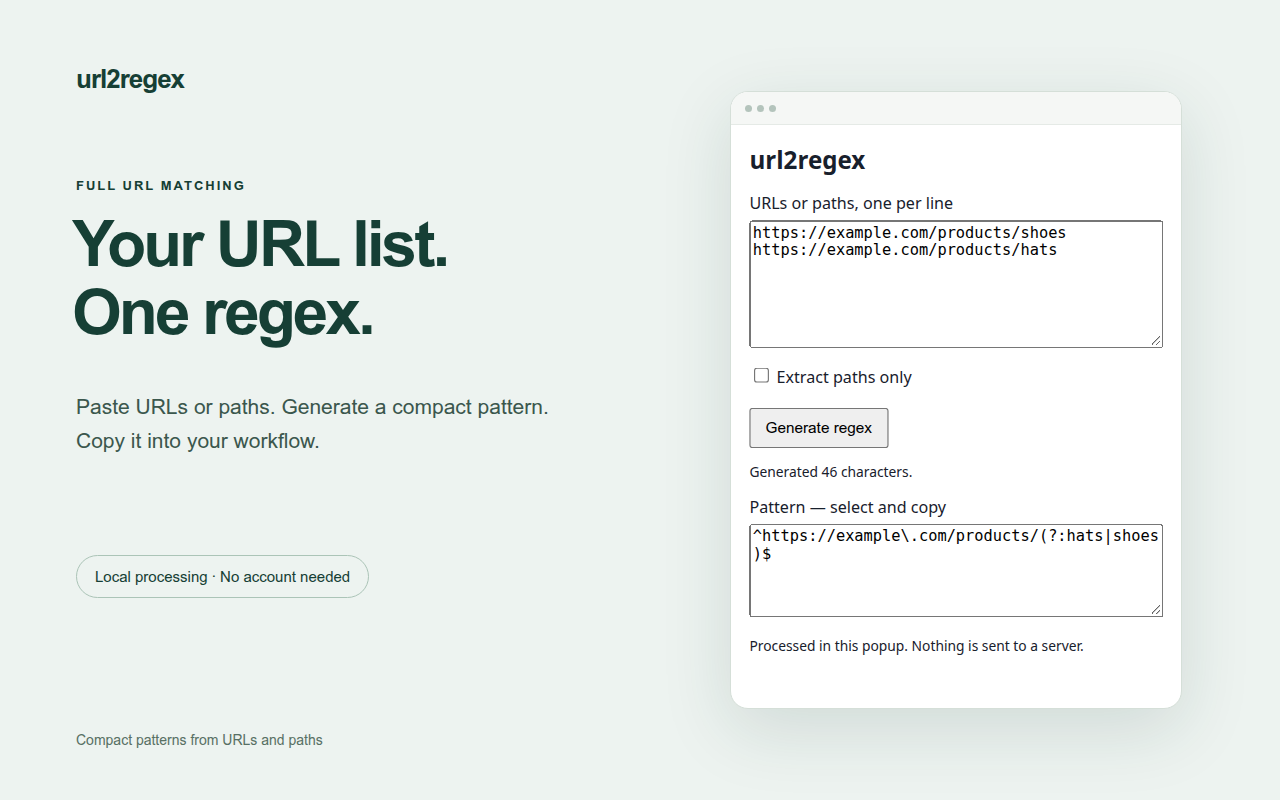
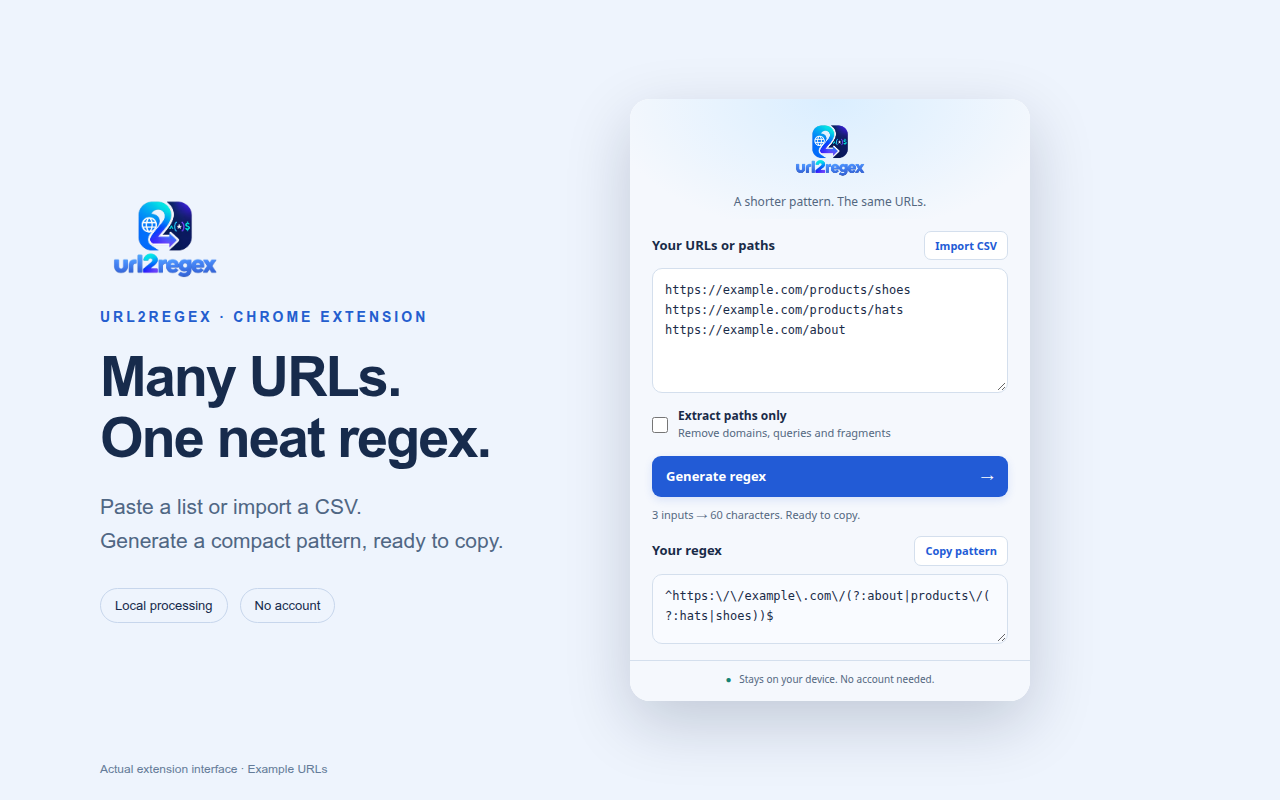
Refresh extension branding and add CSV import and copying

diff --git a/extension/popup.css b/extension/popup.css
@@ -1,6 +1,33 @@
-body { width: 360px; margin: 16px; font: 14px system-ui, sans-serif; color: #18202c; }
-h1 { font-size: 21px; }
-label { display: block; margin: 10px 0 6px; }
-textarea { box-sizing: border-box; width: 100%; resize: vertical; }
-button { margin-top: 12px; padding: 8px 12px; cursor: pointer; }
-p { font-size: 12px; }
+:root { color-scheme: light dark; --bg:#f5f8fd; --surface:#fff; --text:#192b48; --muted:#536780; --border:#d4dfed; --blue:#225bd6; --field:#f9fbff; }
+* { box-sizing:border-box; }
+body { width:400px; margin:0; background:var(--bg); color:var(--text); font:13px/1.5 system-ui,sans-serif; }
+header { padding:10px 24px 8px; text-align:center; background:radial-gradient(ellipse at top,#daeeff,transparent 80%); }
+header img { display:block; width:114px; height:80px; object-fit:contain; margin:0 auto; }
+header p { margin:4px 0 0; color:var(--muted); font-size:12px; }
+main { padding:8px 22px 16px; }
+.section-heading { display:flex; align-items:center; justify-content:space-between; min-height:32px; gap:12px; padding:4px 0 8px; }
+label { font-weight:650; }
+textarea { display:block; width:100%; padding:12px; border:1px solid var(--border); border-radius:10px; background:var(--surface); color:var(--text); font:12px/1.65 ui-monospace,SFMono-Regular,Consolas,monospace; resize:vertical; min-height:70px; }
+textarea::placeholder { color:var(--muted); opacity:0.8; }
+textarea:focus-visible,button:focus-visible,.import:focus-within { outline:3px solid #83b8ff; outline-offset:2px; }
+.option { display:flex; gap:10px; align-items:center; padding:14px 0; font-size:12px; cursor:pointer; }
+.option input { width:16px; height:16px; margin:0; accent-color:var(--blue); }
+small { display:block; font-size:11px; color:var(--muted); font-weight:400; }
+button { font:inherit; cursor:pointer; }
+.primary { display:flex; justify-content:space-between; width:100%; padding:11px 14px; border:0; border-radius:9px; background:var(--blue); color:#fff; font-weight:650; box-shadow:0 3px 8px #225bd622; }
+.primary:hover { background:#184bc0; }
+.import,.copy { position:relative; display:inline-flex; align-items:center; justify-content:center; color:var(--blue); font-size:11px; line-height:1.4; font-weight:650; cursor:pointer; border:1px solid var(--border); border-radius:7px; padding:6px 10px; background:var(--surface); }
+.import:hover,.copy:not(:disabled):hover { border-color:var(--blue); background:var(--field); }
+.import input { position:absolute; inset:0; opacity:0; width:100%; cursor:pointer; }
+.copy:disabled { color:var(--muted); opacity:0.6; cursor:default; background:var(--field); }
+#status { min-height:18px; margin:10px 0 7px; font-size:11px; color:var(--muted); }
+#status[data-error="true"] { color:#bc3540; }
+#result { background:var(--field); }
+footer { padding:11px 22px 14px; border-top:1px solid var(--border); font-size:10px; color:var(--muted); text-align:center; }
+footer span { color:#168474; margin-right:5px; }
+@media (prefers-color-scheme:dark) {
+ :root { --bg:#111d30; --surface:#18273e; --field:#142238; --text:#edf4ff; --muted:#a5b5cd; --border:#31435d; --blue:#83b6ff; }
+ header { background:radial-gradient(ellipse at top,#1a3658,transparent 80%); }
+ .primary { background:#3069df; color:#fff; }
+ #status[data-error="true"] { color:#ff9aa7; }
+}

diff --git a/extension/popup.js b/extension/popup.js
@@ -1,18 +1,65 @@
-import { urlsToRegex } from "./lib/index.js";
+import { urlsToRegex, parseUrlsCsv } from "./lib/index.js";
 
 const form = document.querySelector("#generator");
+const input = document.querySelector("#urls");
 const result = document.querySelector("#result");
 const status = document.querySelector("#status");
+const copy = document.querySelector("#copy");
+const csv = document.querySelector("#csv");
+const paths = document.querySelector("#paths");
+let revision = 0;
+function message(text, error = false) {
+  status.textContent = text;
+  status.dataset.error = String(error);
+}
+function clearResult() {
+  revision++;
+  result.value = "";
+  copy.disabled = true;
+  copy.textContent = "Copy pattern";
+  message("Ready when you are.");
+}
+input.addEventListener("input", clearResult);
+paths.addEventListener("change", clearResult);
 form.addEventListener("submit", (event) => {
   event.preventDefault();
-  result.value = "";
+  clearResult();
   try {
-    const values = document.querySelector("#urls").value.split(/\r?\n/).filter(line => line.trim());
-    result.value = urlsToRegex(values, {
-      target: document.querySelector("#paths").checked ? "path" : "input",
-    });
-    status.textContent = `Generated ${result.value.length} characters.`;
+    const values = input.value.split(/\r\n|\r|\n/).filter(line => line.trim());
+    result.value = urlsToRegex(values, { target: paths.checked ? "path" : "input" });
+    copy.disabled = false;
+    message(`${values.length} inputs → ${result.value.length} characters. Ready to copy.`);
   } catch (error) {
-    status.textContent = error.message;
+    message(error.message, true);
+  }
+});
+csv.addEventListener("change", async () => {
+  const file = csv.files?.[0];
+  if (!file) return;
+  clearResult();
+  const current = revision;
+  try {
+    const values = parseUrlsCsv(await file.text());
+    if (current !== revision) return;
+    if (values.some(value => /[\r\n]/.test(value))) {
+      throw new Error("CSV URLs must each fit on one line.");
+    }
+    input.value = values.join("\n");
+    message(`Imported ${values.length} URLs or paths. Select Generate regex.`);
+  } catch (error) {
+    if (current === revision) message(error.message, true);
+  } finally {
+    csv.value = "";
+  }
+});
+copy.addEventListener("click", async () => {
+  if (!result.value) return;
+  try {
+    await navigator.clipboard.writeText(result.value);
+    message("Pattern copied to clipboard.");
+  } catch {
+    result.focus();
+    result.select();
+    message("Select the pattern and copy it with Ctrl+C or ⌘C.");
   }
 });

diff --git a/extension/popup.html b/extension/popup.html
@@ -2,21 +2,24 @@
 <html lang="en">
 <head>
   <meta charset="utf-8">
+  <meta name="color-scheme" content="light dark">
   <title>url2regex</title>
   <link rel="stylesheet" href="popup.css">
 </head>
 <body>
-  <h1>url2regex</h1>
-  <form id="generator">
-    <label for="urls">URLs or paths, one per line</label>
-    <textarea id="urls" rows="7" placeholder="https://example.com/a&#10;https://example.com/a/b" required></textarea>
-    <label><input id="paths" type="checkbox"> Extract paths only</label>
-    <button type="submit">Generate regex</button>
-  </form>
-  <p id="status" role="status" aria-live="polite"></p>
-  <label for="result">Pattern — select and copy</label>
-  <textarea id="result" rows="5" readonly></textarea>
-  <p>Processed in this popup. Nothing is sent to a server.</p>
+  <header><img src="branding/logo.png" alt="url2regex"><p>A shorter pattern. The same URLs.</p></header>
+  <main>
+    <form id="generator">
+      <div class="section-heading"><label for="urls">Your URLs or paths</label><label class="import" for="csv">Import CSV<input id="csv" type="file" accept=".csv,text/csv"></label></div>
+      <textarea id="urls" rows="5" placeholder="https://example.com/products/shoes&#10;https://example.com/products/hats" required spellcheck="false"></textarea>
+      <label class="option"><input id="paths" type="checkbox"><span>Extract paths only<small>Remove domains, queries and fragments</small></span></label>
+      <button class="primary" type="submit">Generate regex <span aria-hidden="true">→</span></button>
+    </form>
+    <p id="status" role="status" aria-live="polite">Ready when you are.</p>
+    <div class="section-heading"><label for="result">Your regex</label><button id="copy" class="copy" type="button" disabled>Copy pattern</button></div>
+    <textarea id="result" rows="2" readonly spellcheck="false" placeholder="Your pattern will appear here"></textarea>
+  </main>
+  <footer><span aria-hidden="true">●</span> Stays on your device. No account needed.</footer>
   <script type="module" src="popup.js"></script>
 </body>
 </html>

diff --git a/extension/package.py b/extension/package.py
@@ -13,7 +13,7 @@ root = Path(__file__).resolve().parent
 subprocess.run(["node", str(root / "build.mjs")], check=True)
 dist = root / "dist"
 manifest = json.loads((dist / "manifest.json").read_text())
-files = ["manifest.json", "popup.html", "popup.js", "popup.css", "lib/index.js", "lib/validation.js", "lib/csv.js", "LICENSE"]
+files = ["manifest.json", "popup.html", "popup.js", "popup.css", "branding/logo.png", "lib/index.js", "lib/validation.js", "lib/csv.js", "LICENSE"]
 files.extend(manifest["icons"].values())
 destination = root / f"url2regex-{manifest['version']}.zip"
 with ZipFile(destination, "w", ZIP_DEFLATED) as archive:

diff --git a/extension/store/listing.md b/extension/store/listing.md
@@ -14,18 +14,22 @@ Language: English
 Turn a list of URLs or paths into a compact regular expression, right from your
 browser toolbar.
 
-Paste one URL or path per line, choose whether to extract paths only, and select
-Generate regex. Select and copy the resulting pattern into your workflow.
+Paste one URL or path per line, or import a CSV. Choose whether to extract
+paths only, select Generate regex, then Copy pattern to use it in your workflow.
 
 Features:
 - Group shared prefixes to reduce repetition.
-- Escape literal regex characters automatically.
+- Escape literal regex characters, including forward slashes, automatically.
+- Import CSV files with automatic header and URL/path column detection.
+- Copy generated patterns with one click.
+- Follow your light or dark theme.
 - Preserve full input strings by default, including queries and fragments.
 - Optionally extract paths, dropping origins, queries, and fragments.
 - Process everything locally, without an account or server connection.
 
-CSV import and regex validation reports are not included in this initial
-extension release. Check case-sensitivity, matching mode, and length limits in
+Regex validation reports are not included in the popup. For CSV import, use
+a single URL/path column if automatic detection reports ambiguity. Check
+case-sensitivity, matching mode, and length limits in
 the tool where you use the generated pattern.
 
 Open source under the MIT license:
@@ -33,7 +37,7 @@ https://github.com/mertefeisawesome/url2regex
 
 ## Privacy form
 
-Single purpose: Convert user-pasted URL or path lists into compact regular
+Single purpose: Convert user-pasted or CSV-imported URL or path lists into compact regular
 expressions, optionally extracting paths.
 
 Permissions: None requested.
@@ -59,7 +63,7 @@ https://example.com/a/b
 ```
 
 Generate a regex. Enable Extract paths only and generate again; the output
-should be `^/a(?:/b)?$`. Select the output text to copy it. No active page access
+should be `^\/a(?:\/b)?$`. Select Copy pattern to copy it. No active page access
 or special permissions are required.
 
 ## Upload materials
@@ -70,9 +74,10 @@ or special permissions are required.
 - Screenshots: `extension/store/screenshot-full-urls.png` and
   `extension/store/screenshot-paths.png` (1280x800). Each shows the actual built
   popup rendered in Chrome with synthetic input, surrounded by explanatory
-  presentation text. No logo is included, so a separate logo can be supplied.
+  presentation text and the shared project logo. The screenshots show light and
+  dark themes.
 
 Full-URL generation, path extraction, and error handling passed browser checks
 against the built popup page. Before submission, load `extension/dist` unpacked and verify the actual popup,
-path toggle, error handling, and manual copy. Commit and push the privacy policy
+path toggle, headered and headerless CSV import, error handling, and copying. Commit and push the privacy policy
 so its public URL resolves. Check the listing fields against the final package.

diff --git a/extension/README.md b/extension/README.md
@@ -1,8 +1,10 @@
 # Chrome extension
 
-A minimal Manifest V3 popup uses the same generator as the npm package. Paste
-one URL or path per line, optionally extract paths, and generate a pattern.
-Select the output to copy it. Input is processed locally; no permissions,
+A Manifest V3 popup uses the same generator and CSV parser as the npm package.
+Paste one URL or path per line, or import a CSV with automatic header and column
+detection. Optionally extract paths, generate a pattern, and select **Copy pattern**.
+Slashes are escaped by default. The popup follows your light or dark theme.
+Input is processed locally; no permissions,
 storage, analytics, network requests, or external scripts are used.
 
 Build from the repository root:
@@ -19,3 +21,13 @@ Store copy, privacy form answers, and reviewer instructions are in
 [store/listing.md](store/listing.md); the privacy policy is in
 [PRIVACY.md](PRIVACY.md). Test the unpacked popup in Chrome before submission.
 Uploading a draft establishes an extension ID, not an exclusive display name.
+
+Run the built-popup checks with `node extension/check-package.mjs` after building.
+They cover escaped slashes, path extraction, headered and headerless CSV import,
+copying, stale-result clearing, and error handling. If automatic CSV column
+selection is ambiguous, use a single URL/path column. CSV values must each fit
+on one line. Closing the popup clears its contents.
+
+Branding uses the shared `assets/branding/logo-transparent-light.png` wordmark
+and `assets/branding/extension-icon.png` emblem. Store screenshots show the
+built popup in light and dark themes with synthetic example URLs.

diff --git a/extension/PRIVACY.md b/extension/PRIVACY.md
@@ -1,7 +1,8 @@
 # url2regex extension privacy policy
 
-The url2regex Chrome extension converts the URLs or paths you paste into its
-popup into a regular expression. Processing takes place locally in your browser.
+The url2regex Chrome extension converts the URLs or paths you paste or import
+from a CSV file into a regular expression. Processing takes place locally in
+your browser.
 
 The extension does not collect, transmit, sell, or share your input or generated
 patterns. It does not use analytics, advertising, accounts, or tracking services.
